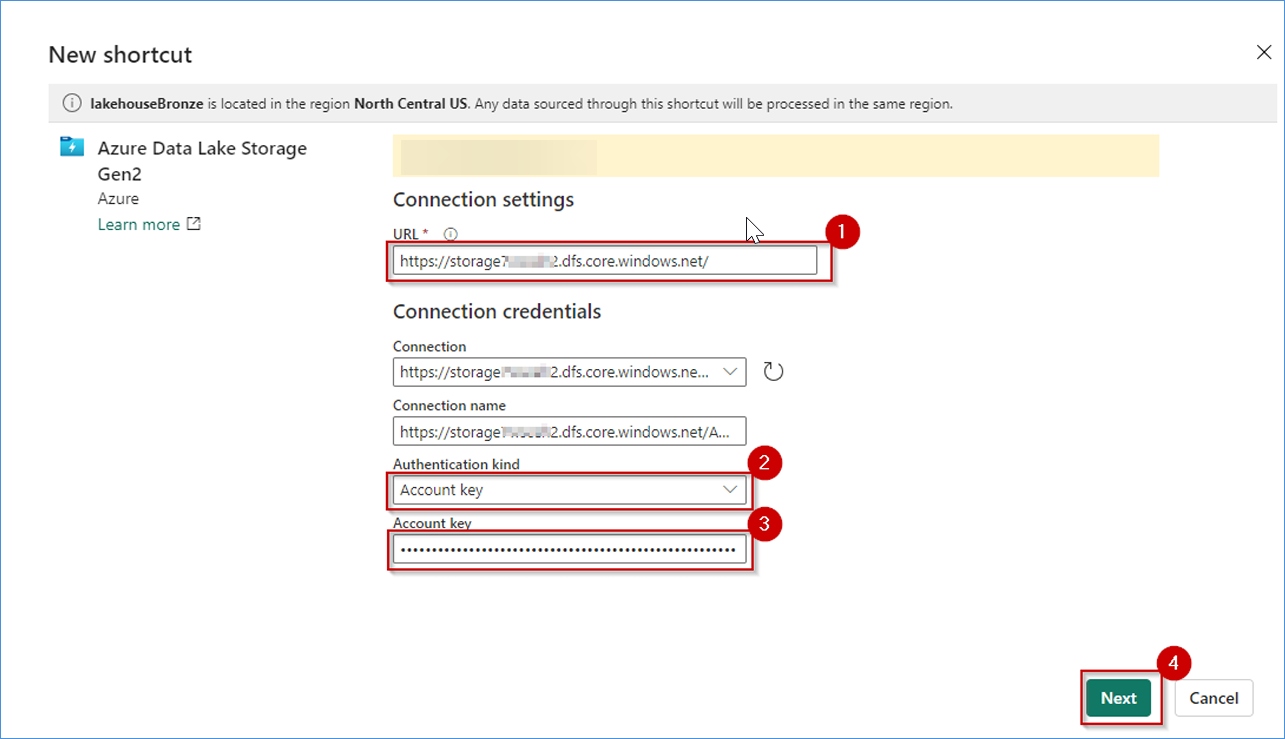
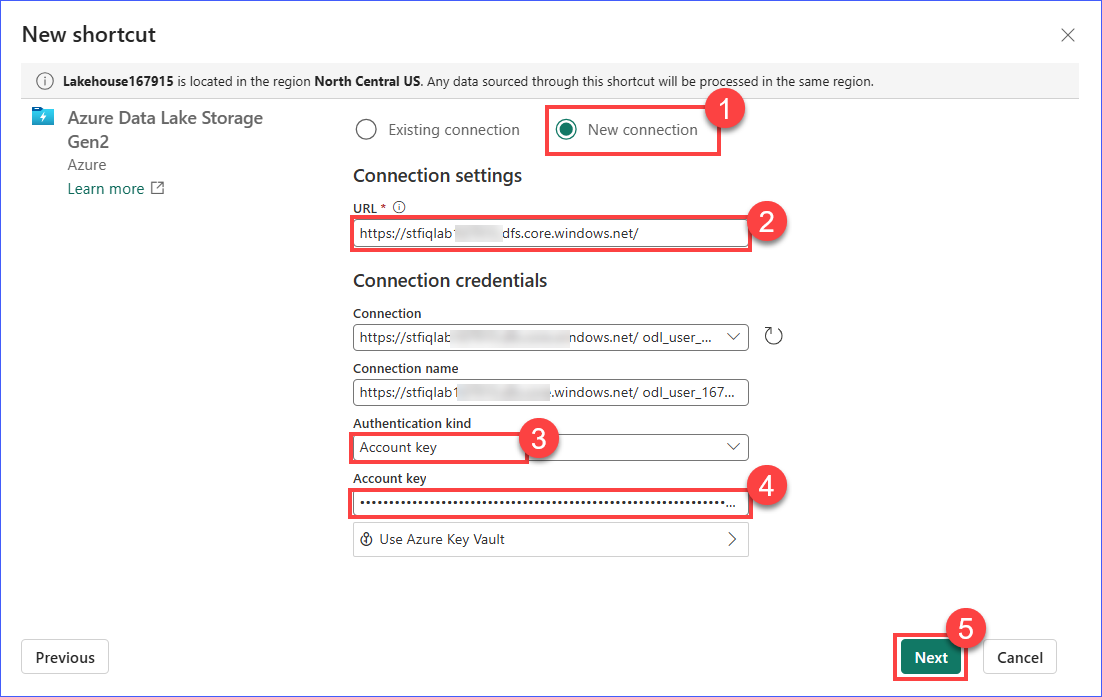
commit

diff --git a/Lab/Lab 1- Building Fabric IQ/Exercise2-Build a Lakehouse and load batch data into the Lakehouse.md b/Lab/Lab 1- Building Fabric IQ/Exercise2-Build a Lakehouse and load batch data into the Lakehouse.md
@@ -60,8 +60,6 @@ This task demonstrates how to perform a batch load of multiple CSV files into th
 
 5. In the **New shortcut** window,click on **New connection**.
 
-    ![Newconnection](../media/Newconnection.png)
-
 6. Under **Connection settings**, paste the Storage Account endpoint in the **URL** field: **<inject key= "storageDfsEndpoint" enableCopy="true"/>**.
    > **Note:** Wait for the screen to load. The connection details may be auto-populated.
 
